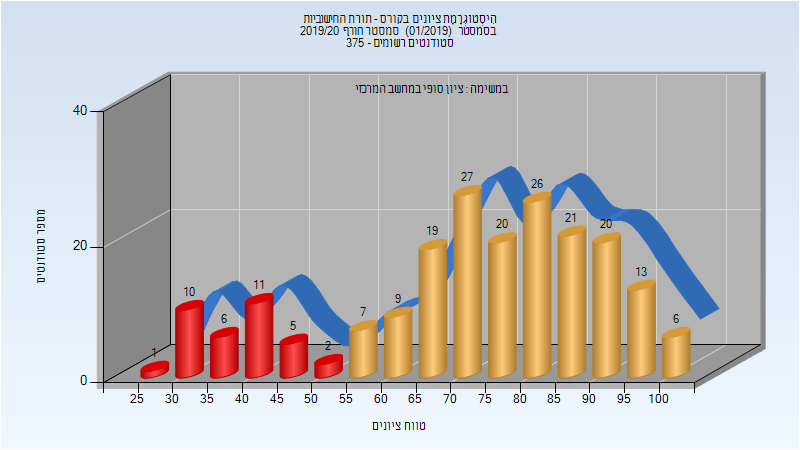
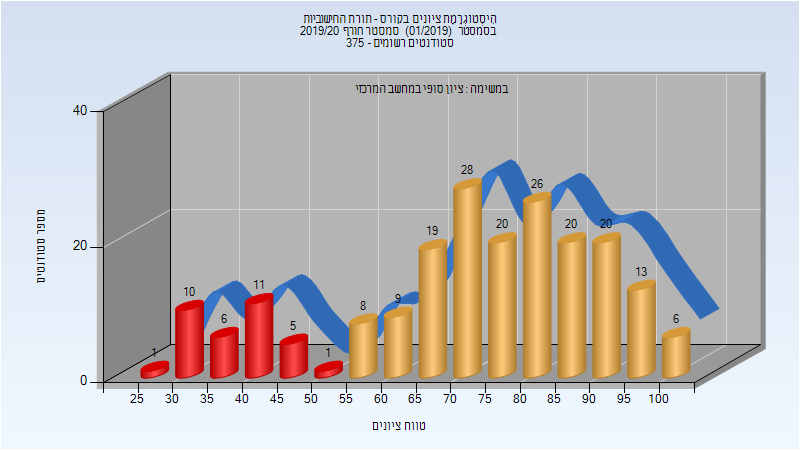
Deploy michael-maltsev/technion-histograms to github.com/michael-maltsev/technion-histograms.git:gh-pages

diff --git a/236343/index.html b/236343/index.html
@@ -259,11 +259,11 @@
 <tbody>
 <tr>
 <td>258</td>
-<td>213/45</td>
+<td>214/44</td>
 <td>83</td>
 <td>26</td>
 <td>100</td>
-<td>72.719</td>
+<td>72.64</td>
 <td>76</td>
 </tr>
 </tbody>

diff --git a/236343/README.md b/236343/README.md
@@ -84,7 +84,7 @@
 
 | סטודנטים | עברו/נכשלו | אחוז עוברים | ציון מינימלי | ציון מקסימלי | ממוצע | חציון |
 | ---- | ---- | ---- | ---- | ---- | ---- | ---- |
-| 258 | 213/45 | 83 | 26 | 100 | 72.719 | 76 |
+| 258 | 214/44 | 83 | 26 | 100 | 72.64 | 76 |
 
 ## אביב 2020
 
